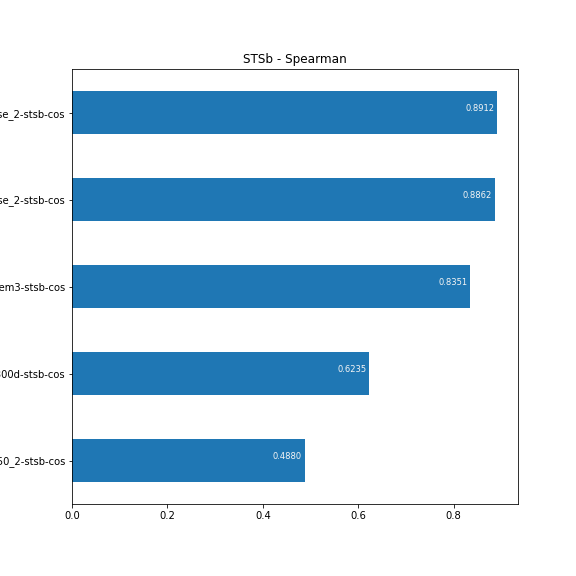
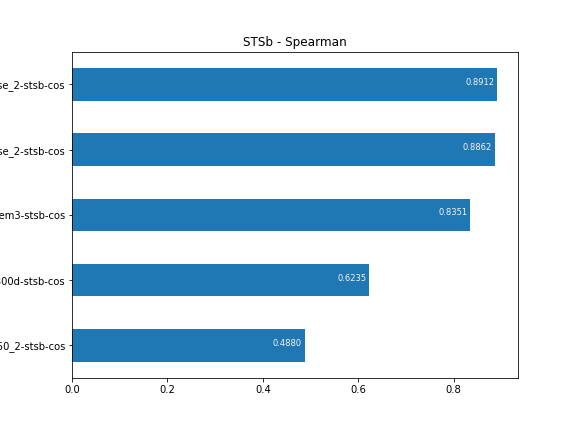
Colors and size of images

diff --git a/analysis_utils.py b/analysis_utils.py
@@ -49,7 +49,7 @@ def plot_benchmark(bmark_df, title, savefile=""):
     annotate_barh(ax)
     plt.title(title)
     if savefile:
-        plt.savefig(savefile)
+        plt.savefig(savefile, facecolor='white')
 
         
 #from https://stackoverflow.com/questions/1855884/determine-font-color-based-on-background-color
